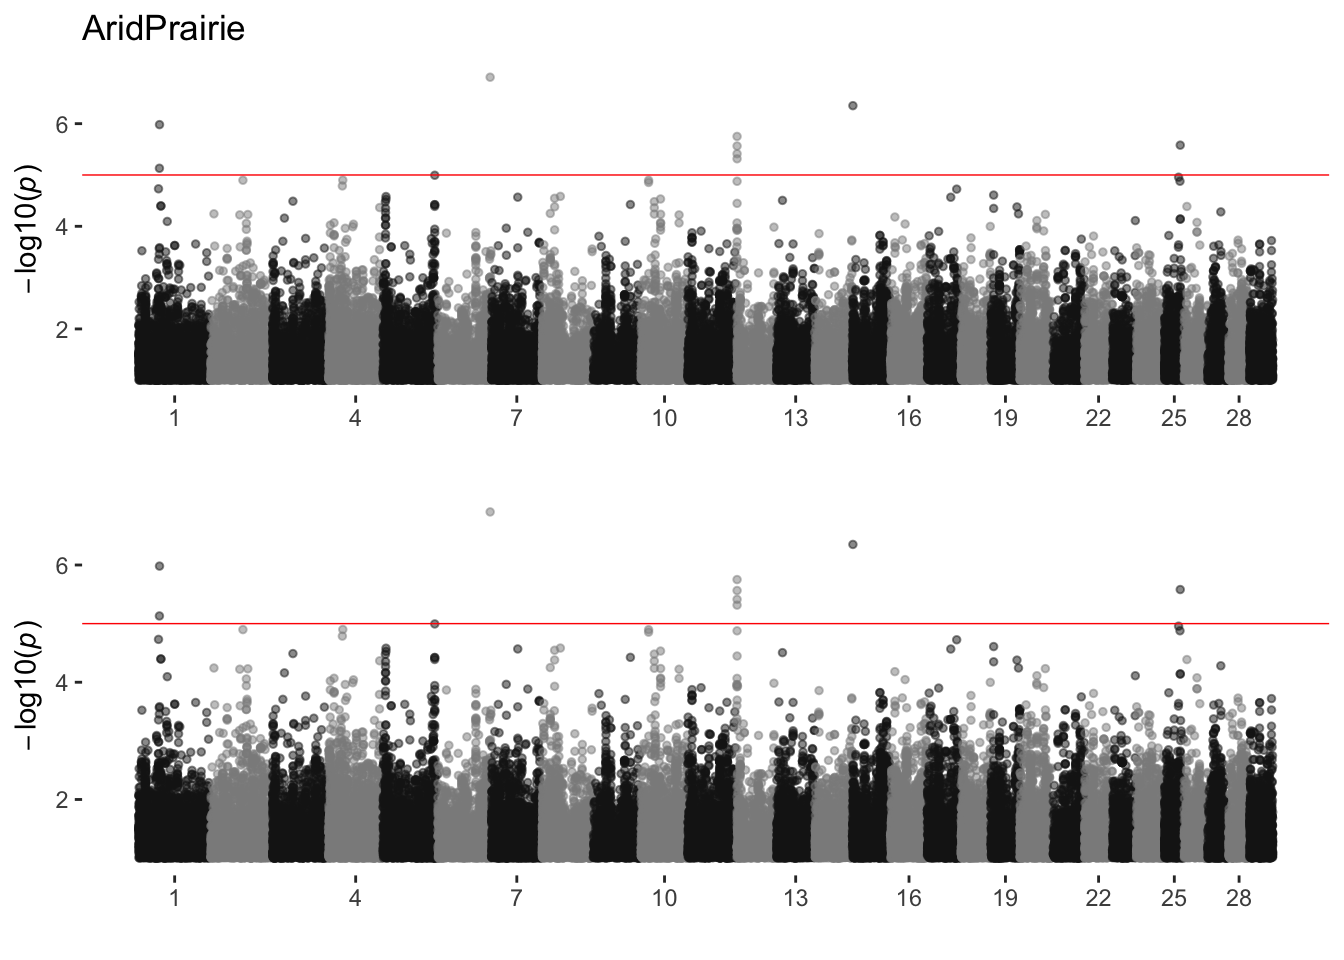
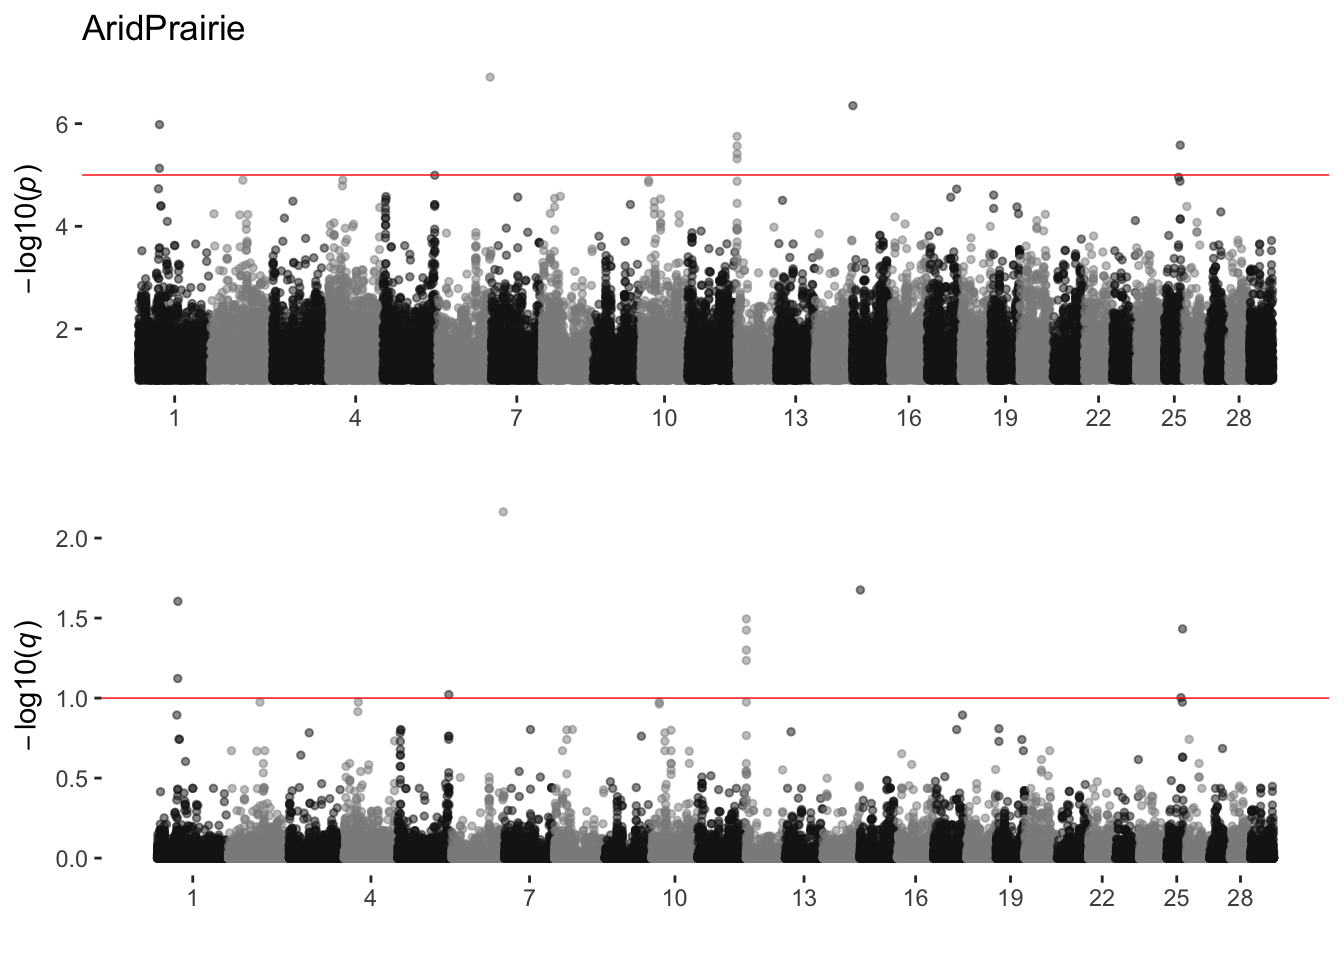
Build site.

diff --git a/docs/envGWAS_850K.html b/docs/envGWAS_850K.html
@@ -490,16 +490,16 @@ This reproducible <a href="http://rmarkdown.rstudio.com">R Markdown</a> analysis
 <div class="panel panel-default">
 <div class="panel-heading">
 <p class="panel-title">
-<a data-toggle="collapse" data-parent="#workflowr-checks" href="#strongRepositoryversionstrongahrefhttpsgithubcomtroyrowanlocaladaptationsequencetreeb86dd2385ccdb05171365412c535694ba7afe432targetblankb86dd23a"> <span class="glyphicon glyphicon-ok text-success" aria-hidden="true"></span> <strong>Repository version:</strong> <a href="https://github.com/troyrowan/local_adaptation_sequence/tree/b86dd2385ccdb05171365412c535694ba7afe432" target="_blank">b86dd23</a> </a>
+<a data-toggle="collapse" data-parent="#workflowr-checks" href="#strongRepositoryversionstrongahrefhttpsgithubcomtroyrowanlocaladaptationsequencetreea1fbbf7746ea1065ee429a7207c7afbc743520b3targetblanka1fbbf7a"> <span class="glyphicon glyphicon-ok text-success" aria-hidden="true"></span> <strong>Repository version:</strong> <a href="https://github.com/troyrowan/local_adaptation_sequence/tree/a1fbbf7746ea1065ee429a7207c7afbc743520b3" target="_blank">a1fbbf7</a> </a>
 </p>
 </div>
[2 lines of base64/hex data omitted]
 <div class="panel-body">
 <p>
 Great! You are using Git for version control. Tracking code development and connecting the code version to the results is critical for reproducibility.
 </p>
 <p>
-The results in this page were generated with repository version <a href="https://github.com/troyrowan/local_adaptation_sequence/tree/b86dd2385ccdb05171365412c535694ba7afe432" target="_blank">b86dd23</a>. See the <em>Past versions</em> tab to see a history of the changes made to the R Markdown and HTML files.
+The results in this page were generated with repository version <a href="https://github.com/troyrowan/local_adaptation_sequence/tree/a1fbbf7746ea1065ee429a7207c7afbc743520b3" target="_blank">a1fbbf7</a>. See the <em>Past versions</em> tab to see a history of the changes made to the R Markdown and HTML files.
 </p>
 <p>
 Note that you need to be careful to ensure that all relevant files for the analysis have been committed to Git prior to generating the results (you can use <code>wflow_publish</code> or <code>wflow_git_commit</code>). workflowr only checks the R Markdown file, but you know if there are other scripts or data files that it depends on. Below is the status of the Git repository when the results were generated:
@@ -580,6 +580,40 @@ Message
 </tr>
 </thead>
 <tbody>
+<tr>
+<td>
+Rmd
+</td>
+<td>
+<a href="https://github.com/troyrowan/local_adaptation_sequence/blob/a1fbbf7746ea1065ee429a7207c7afbc743520b3/analysis/envGWAS_850K.Rmd" target="_blank">a1fbbf7</a>
+</td>
+<td>
+Troy Rowan
+</td>
+<td>
+2021-06-08
+</td>
+<td>
+Red angus corrections
+</td>
+</tr>
+<tr>
+<td>
+html
+</td>
+<td>
+<a href="https://rawcdn.githack.com/troyrowan/local_adaptation_sequence/3e2b6727af189567ffab7778d9685efd36f186a7/docs/envGWAS_850K.html" target="_blank">3e2b672</a>
+</td>
+<td>
+Troy Rowan
+</td>
+<td>
+2021-06-08
+</td>
+<td>
+Build site.
+</td>
+</tr>
 <tr>
 <td>
 Rmd
@@ -1789,9 +1823,9 @@ ran_multisig =
 
 ran_manhattans = 
   unique(ran_envgwas$variable) %&gt;%
-    purrr::map(~plot_grid(ggmanhattan2(filter(ran_envgwas, variable == .x &amp; p &lt; 0.1),pcol = p)+
+    purrr::map(~plot_grid(ggmanhattan2(filter(ran_envgwas, variable == .x &amp; p &lt; 0.1),pcol = p, value = p)+
                  ggtitle(.x),
-                          ggmanhattan2(filter(ran_envgwas, variable == .x &amp; p &lt; 0.1),pcol = q),
+                          ggmanhattan2(filter(ran_envgwas, variable == .x &amp; p &lt; 0.1),pcol = q, value = q),
                           nrow = 2))</code></pre>
 </div>
 <div id="envgwas-runs-1" class="section level2 tabset">
